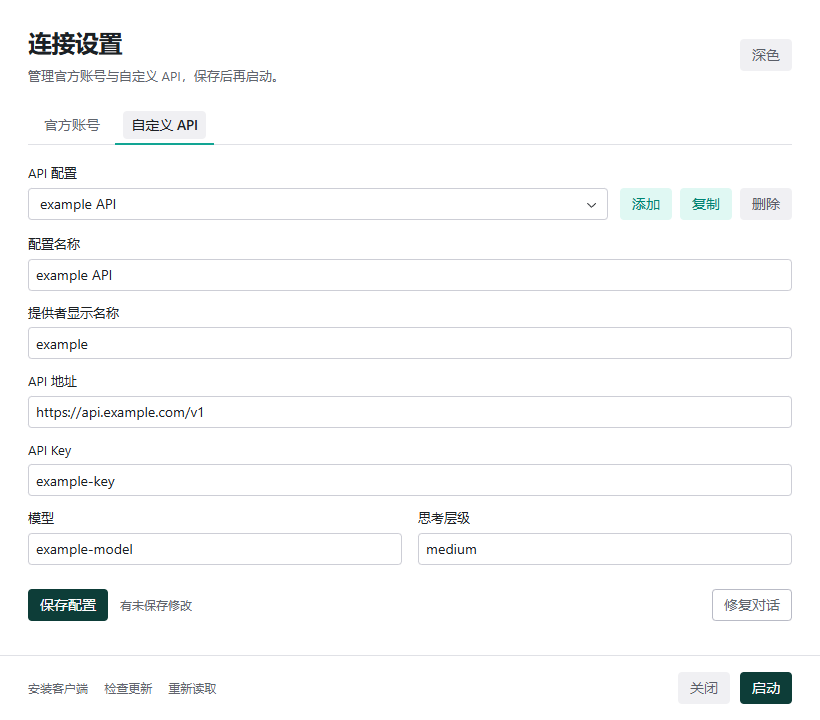
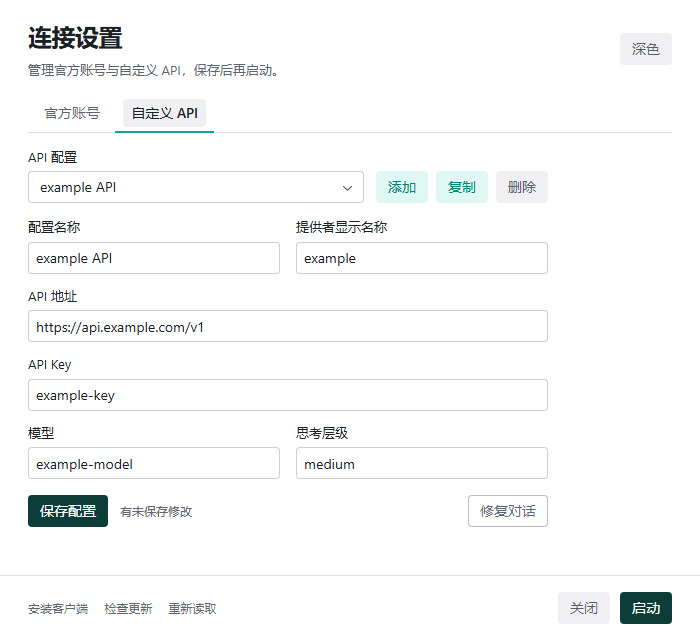
feat: 表单改为定宽两列栅格并压缩默认窗口高度
输入框此前随窗口拉伸到近 760px，模型名、思考层级这类短值也占满整行，
纵向则每个字段独占一行。改为：
- 表单固定 520px 宽，两列栅格；配置名称与提供者显示名称、模型与思考层级
  各自并排，API 地址和 API Key 跨两列。
- HTTP 代理的说明文字移入字段内部，放在控件右侧的空列，不再另占一行。
- 官方账号状态与配置名称同行，去掉上下边框，改用与其他字段一致的标签。
- 头部与内容区内边距收紧，字段间距由 margin 改为栅格 gap。
自定义 API 由 5 行缩到 4 行，官方账号由 4 行缩到 3 行，默认窗口相应从
820 × 720 调整为 700 × 640；界面回归增加默认窗口不出现纵向滚动的断言。

diff --git a/ui/src/App.tsx b/ui/src/App.tsx
@@ -305,7 +305,7 @@ export default function App() {
                   </div>
                 </div>
                 {profile ? (
-                  <>
+                  <div className="form">
                     <Field
                       label="配置名称"
                       value={profile.name ?? ""}
@@ -320,7 +320,8 @@ export default function App() {
                     />
                     {mode === "official" ? (
                       <>
-                        <div className="account-status">
+                        <div className="field account-status">
+                          <span>账号状态</span>
                           <strong>
                             {profile.email ||
                               profile.account_name ||
@@ -333,9 +334,30 @@ export default function App() {
                           </p>
                         </div>
                         <Field
+                          label="官方模型（可留空）"
+                          value={draft.library.official_model ?? ""}
+                          disabled={!!busy}
+                          onChange={(v) =>
+                            edit((next) => {
+                              next.library.official_model = v;
+                            })
+                          }
+                        />
+                        <Field
+                          label="思考层级（可留空）"
+                          value={draft.library.official_effort ?? ""}
+                          disabled={!!busy}
+                          onChange={(v) =>
+                            edit((next) => {
+                              next.library.official_effort = v;
+                            })
+                          }
+                        />
+                        <Field
                           label="HTTP 代理"
                           value={draft.library.official_proxy_url ?? ""}
                           placeholder="http://127.0.0.1:7890"
+                          hint="所有官方账号共用。留空不设置独立代理；不修改系统代理。"
                           disabled={!!busy}
                           onChange={(v) =>
                             edit((next) => {
@@ -343,31 +365,6 @@ export default function App() {
                             })
                           }
                         />
-                        <p className="help">
-                          所有官方账号共用。留空不设置独立代理；不修改系统代理。
-                        </p>
-                        <div className="field-grid">
-                          <Field
-                            label="官方模型（可留空）"
-                            value={draft.library.official_model ?? ""}
-                            disabled={!!busy}
-                            onChange={(v) =>
-                              edit((next) => {
-                                next.library.official_model = v;
-                              })
-                            }
-                          />
-                          <Field
-                            label="思考层级（可留空）"
-                            value={draft.library.official_effort ?? ""}
-                            disabled={!!busy}
-                            onChange={(v) =>
-                              edit((next) => {
-                                next.library.official_effort = v;
-                              })
-                            }
-                          />
-                        </div>
                       </>
                     ) : (
                       fields && (
@@ -379,6 +376,7 @@ export default function App() {
                             onChange={(v) => field("provider_name", v)}
                           />
                           <Field
+                            wide
                             label="API 地址"
                             value={fields.base_url}
                             placeholder="https://api.example.com/v1"
@@ -386,29 +384,28 @@ export default function App() {
                             onChange={(v) => field("base_url", v)}
                           />
                           <Field
+                            wide
                             label="API Key"
                             value={fields.api_key}
                             disabled={!!busy}
                             onChange={(v) => field("api_key", v)}
                           />
-                          <div className="field-grid">
-                            <Field
-                              label="模型"
-                              value={fields.model}
-                              disabled={!!busy}
-                              onChange={(v) => field("model", v)}
-                            />
-                            <Field
-                              label="思考层级"
-                              value={fields.effort}
-                              disabled={!!busy}
-                              onChange={(v) => field("effort", v)}
-                            />
-                          </div>
+                          <Field
+                            label="模型"
+                            value={fields.model}
+                            disabled={!!busy}
+                            onChange={(v) => field("model", v)}
+                          />
+                          <Field
+                            label="思考层级"
+                            value={fields.effort}
+                            disabled={!!busy}
+                            onChange={(v) => field("effort", v)}
+                          />
                         </>
                       )
                     )}
-                  </>
+                  </div>
                 ) : (
                   <div className="empty">
                     <h2>
@@ -569,15 +566,19 @@ function Field({
   onChange,
   disabled,
   placeholder,
+  hint,
+  wide,
 }: {
   label: string;
   value: string;
   onChange: (value: string) => void;
   disabled: boolean;
   placeholder?: string;
+  hint?: string;
+  wide?: boolean;
 }) {
   return (
-    <label className="field">
+    <label className={`field${wide ? " wide" : ""}${hint ? " with-hint" : ""}`}>
       <span>{label}</span>
       <TextField.Root
         value={value}
@@ -587,6 +588,7 @@ function Field({
         autoComplete="off"
         spellCheck={false}
       />
+      {hint && <span className="hint">{hint}</span>}
     </label>
   );
 }

diff --git a/ui/src/style.css b/ui/src/style.css
@@ -19,6 +19,9 @@ input {
   --cursor-button: pointer;
 }
 .app {
+  /* 表单按可读行长定宽，不随窗口拉伸：短字段单列，长字段跨两列。 */
+  --form-width: 520px;
+  --column-gap: 16px;
   display: flex;
   flex-direction: column;
   min-height: 100vh;
@@ -32,7 +35,7 @@ header {
   justify-content: space-between;
   align-items: center;
   gap: 20px;
-  padding: 24px 28px 18px;
+  padding: 18px 28px 12px;
 }
 h1 {
   margin: 0;
@@ -52,57 +55,85 @@ p {
 }
 .content {
   flex: 1;
-  padding: 0 28px 20px;
+  padding: 0 28px 16px;
 }
 .settings {
-  padding-top: 18px;
+  padding-top: 14px;
 }
 .profile-row {
   display: flex;
   align-items: end;
   gap: 12px;
   margin-bottom: 14px;
+  max-width: var(--form-width);
 }
 .profile-select {
   display: flex;
   flex: 1;
   min-width: 0;
   flex-direction: column;
-  gap: 6px;
+  gap: 5px;
   font-size: 13px;
 }
 .profile-actions {
   display: flex;
   gap: 8px;
 }
+.form {
+  display: grid;
+  grid-template-columns: repeat(2, minmax(0, 1fr));
+  gap: 12px var(--column-gap);
+  align-items: start;
+  max-width: var(--form-width);
+}
 .field {
   display: flex;
   flex-direction: column;
   gap: 5px;
-  margin-bottom: 12px;
   font-size: 13px;
   min-width: 0;
 }
-.field-grid {
+.field.wide {
+  grid-column: 1 / -1;
+}
+/* 带说明的字段横跨两列，控件仍保持单列宽度，说明文字占用右侧空列。 */
+.field.with-hint {
+  grid-column: 1 / -1;
   display: grid;
-  grid-template-columns: 1fr 1fr;
-  gap: 16px;
+  grid-template-columns: minmax(0, calc(50% - var(--column-gap) / 2)) minmax(
+      0,
+      1fr
+    );
+  column-gap: var(--column-gap);
+  row-gap: 5px;
+}
+.field.with-hint > span:first-child {
+  grid-area: 1 / 1;
+}
+.field.with-hint > :nth-child(2) {
+  grid-area: 2 / 1;
+}
+.field.with-hint > .hint {
+  grid-area: 2 / 2;
+  align-self: center;
+  color: var(--gray-11);
+  font-size: 12px;
+  line-height: 1.5;
 }
 .account-status {
-  margin: 14px 0 18px;
-  padding: 12px 0;
-  border-block: 1px solid var(--gray-5);
-  font-size: 14px;
+  grid-column: 2;
+  grid-row: 1;
   overflow-wrap: anywhere;
 }
-.help {
-  margin: -5px 0 16px;
+.account-status > strong {
+  font-size: 14px;
 }
 .save-row {
   display: flex;
   gap: 12px;
   align-items: center;
-  margin-top: 12px;
+  margin-top: 16px;
+  max-width: var(--form-width);
 }
 .save-row > span {
   color: var(--gray-11);
@@ -202,9 +233,18 @@ input {
   .profile-select {
     flex-basis: 100%;
   }
-  .field-grid {
-    grid-template-columns: 1fr;
-    gap: 0;
+  .form {
+    grid-template-columns: minmax(0, 1fr);
+  }
+  .field.with-hint {
+    grid-template-columns: minmax(0, 1fr);
+  }
+  .field.with-hint > .hint {
+    grid-area: 3 / 1;
+  }
+  .account-status {
+    grid-column: 1;
+    grid-row: auto;
   }
 }
 @media (prefers-reduced-motion: reduce) {

diff --git a/ui/tests/settings.spec.ts b/ui/tests/settings.spec.ts
@@ -165,7 +165,7 @@ test("settings fit desktop, compact window and large text in both themes", async
 }) => {
   await fixture(page);
   for (const [width, height] of [
-    [820, 720],
+    [700, 640],
     [600, 580],
   ]) {
     await page.setViewportSize({ width, height });
@@ -179,6 +179,12 @@ test("settings fit desktop, compact window and large text in both themes", async
           () => document.documentElement.scrollWidth <= innerWidth,
         ),
       ).toBe(true);
+      if (height === 640)
+        expect(
+          await page.evaluate(
+            () => document.documentElement.scrollHeight <= innerHeight,
+          ),
+        ).toBe(true);
       await page.screenshot({
         path: `.impeccable/review/${width}-${mode}.png`,
         fullPage: true,

diff --git a/DESIGN.md b/DESIGN.md
@@ -58,9 +58,11 @@ spacing:
 
 ## Layout
 
-窗口默认尺寸为 820 × 720，最小尺寸为 600 × 580；页面最大宽度为 960px，居中且至少铺满窗口高度。标题、内容、底部动作按纵向排列，内容区域伸展，底部使用细分隔线。
+窗口默认尺寸为 700 × 640，最小尺寸为 600 × 580；页面最大宽度为 960px，居中且至少铺满窗口高度。标题、内容、底部动作按纵向排列，内容区域伸展，底部使用细分隔线。
 
-配置选择器与添加、复制、删除操作位于表单顶部；模型和思考层级在宽窗口中并排。650px 及以下时，内容横向边距降为 18px，字段改单列，配置操作和底部动作允许换行。600px 是桌面窗口下限，不另造手机导航。
+**The Measure Rule.** 表单宽度固定为 520px，不随窗口拉伸。表单是两列栅格：短值字段各占一列，API 地址与 API Key 跨两列，字段说明放在控件右侧的空列而不是另起一行，官方账号状态与配置名称同行。配置选择器与添加、复制、删除操作位于表单顶部，与表单同宽。
+
+650px 及以下时，内容横向边距降为 18px，栅格改单列，说明文字回到控件下方，配置操作和底部动作允许换行。600px 是桌面窗口下限，不另造手机导航。
 
 **The Action Placement Rule.** 保存位于当前 Tab 内；启动与关闭固定在底部动作区；修复对话只出现在自定义 API 的保存行。不同作用范围的动作不能合并成一个按钮。
 

diff --git a/AGENTS.md b/AGENTS.md
@@ -28,7 +28,7 @@
 ## 安全与测试
 
 - 不得把真实 API Key、API 地址、账号、本机路径或 Codex 配置提交到仓库。
-- README 截图或动画只能捕获应用窗口，并使用隔离 fixture 与明显的 `example` 占位值；不得包含桌面背景、终端、用户名或真实配置。
+- README 截图只能捕获应用窗口，并使用隔离 fixture 与明显的 `example` 占位值；不得包含桌面背景、终端、用户名或真实配置。`docs/images/*.png` 取自 `npm test` 输出的 `.impeccable/review/<默认窗口宽>-<模式>.png`，界面布局变更后必须同步替换，不保留与当前界面不符的图片。
 - Rust 测试显式传入临时 Store；正式 GUI 自动化必须设置 `CHATGPT_API_ONLY_CONFIG_DIR` 并指向隔离 fixture，禁止测试读取真实 Codex 用户目录。
 - 测试入口放在 Rust tests 或 `#[cfg(test)]` 中，不得进入正式 EXE，不得添加运行时测试后门。
 - 修改同步逻辑时至少验证：成功更新、无变更幂等、数据库失败回滚、备份存在，以及保存配置不会触发同步。

diff --git a/docs/features/usage.md b/docs/features/usage.md
@@ -21,6 +21,8 @@
 
 API 地址使用 `https://主机/路径/v1`，提供者显示名称与历史 provider ID 分离。API 模式固定使用 `custom` ID；官方模式使用内置 `openai`。官方模式保留不带自定义地址、Key、请求头的 `custom` 定义，使旧对话仍能解析。
 
+![官方账号设置](../images/official-mode.png)
+
 登录、刷新和联网验证由 Codex 完成。新增账号不携带其他账号旧令牌；客户端明确退出登录后，不再恢复该账号旧凭据。部分损坏的令牌阻止读取，避免误判为退出登录。
 
 官方 HTTP 代理只影响新启动客户端、子进程和读取同一 `.env` 的 CLI，不修改系统代理或父终端环境。清空代理或切到 API 模式时，仅移除管理区块，原有内容保留；原有代理变量仍可能生效。
